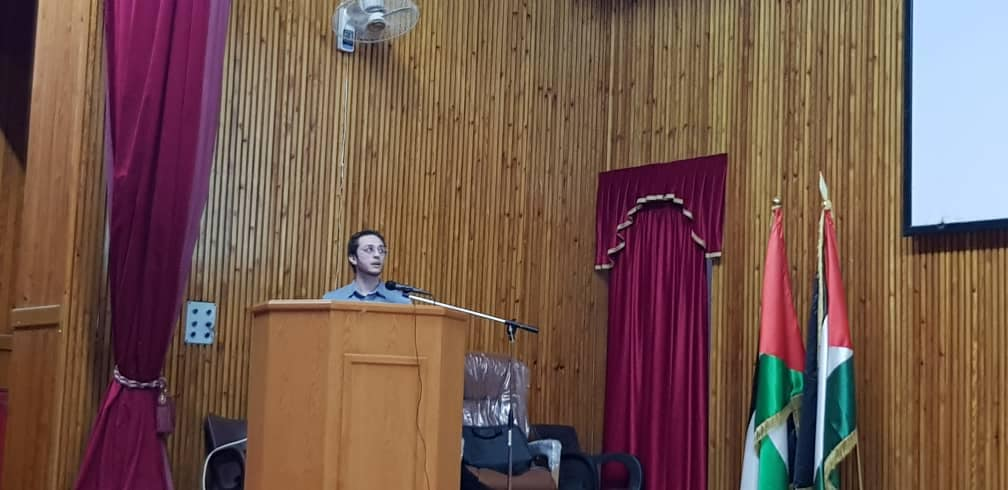
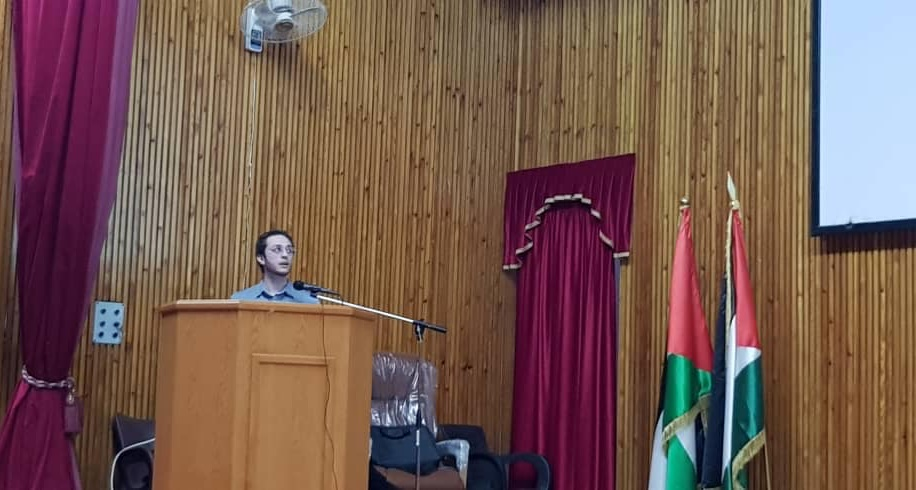
Updates

diff --git a/_pages/about.md b/_pages/about.md
@@ -2,7 +2,7 @@
 layout: about
 title: About
 permalink: /
-subtitle: Doctoral researcher @ <a href='https://cispa.de'>CISPA</a> | <a href='https://www.neuroexplicit.org'>RTG Nx Models</a> | <a href='https://saarland-informatics-campus.de/en/'>UdS</a>
+subtitle: Doctoral researcher @ CISPA | RTG Nx Models | UdS
 
 profile:
   align: right
@@ -16,7 +16,7 @@ social: false # includes social icons at the bottom of the page
 ---
 
 <p style="text-align: justify;">
-I am a machine learning researcher at the <a href='https://cispa.de/en/' target='_blank'>Helmholtz Center CISPA</a>, a member of the <a href='https://www.neuroexplicit.org' target='_blank'>Neuroexplicit Models Research Training Group</a>, and an informatics D.Phil. candidate at <a href='https://saarland-informatics-campus.de/en/' target='_blank'>Saarland University</a>, advised by <a href='https://vreeken.eu' target='_blank'>Jilles Vreeken</a>. My research focuses on explainable and interpretable machine learning and data mining methods, with a primary application in biomedicine.
+I am a machine learning researcher at the <a href='https://cispa.de/en/' target='_blank'>Helmholtz Center CISPA</a>, a member of the <a href='https://www.neuroexplicit.org' target='_blank'>Neuroexplicit Models Research Training Group</a>, and an informatics D.Phil. candidate at <a href='https://saarland-informatics-campus.de/en/' target='_blank'>Saarland University</a>, advised by <a href='https://vreeken.eu' target='_blank'>Jilles Vreeken</a>. My research focuses on interpretable machine learning and data mining methods, with a primary application in biomedicine.
 <br><br>
-I obtained my M.Sc. in <a href='https://saarland-informatics-campus.de/en/studium-studies/data-science-and-artificial-intelligence-master/' target='_blank'>Data Science and AI</a> from Saarland University. I wrote my Master's thesis on differentiable subgroup discovery in time-to-event (survival) data with the <a href='https://eda.rg.cispa.io' target='_blank'>Exploratory Data Analysis</a> group. Before that, I earned my B.Eng. in Information Technology from <a href='https://www.damascusuniversity.edu.sy/index.php?lang=2' target='_blank'>Damascus University</a>, where for my graduation project I developed a computer-vision-powered system that detects safety- and security-related events.
+I obtained my M.Sc. in <a href='https://saarland-informatics-campus.de/en/studium-studies/data-science-and-artificial-intelligence-master/' target='_blank'>Data Science and AI</a> from Saarland University. I wrote my Master's thesis on differentiable subgroup discovery in time-to-event (survival) data with the <a href='https://eda.rg.cispa.io' target='_blank'>Exploratory Data Analysis</a> group. Before that, I earned my B.Eng. in Information Technology from <a href='https://www.damascusuniversity.edu.sy/index.php?lang=2' target='_blank'>Damascus University</a>, where for my graduation project I developed a computer-vision-powered system that detects safety and security events.
 </p>
